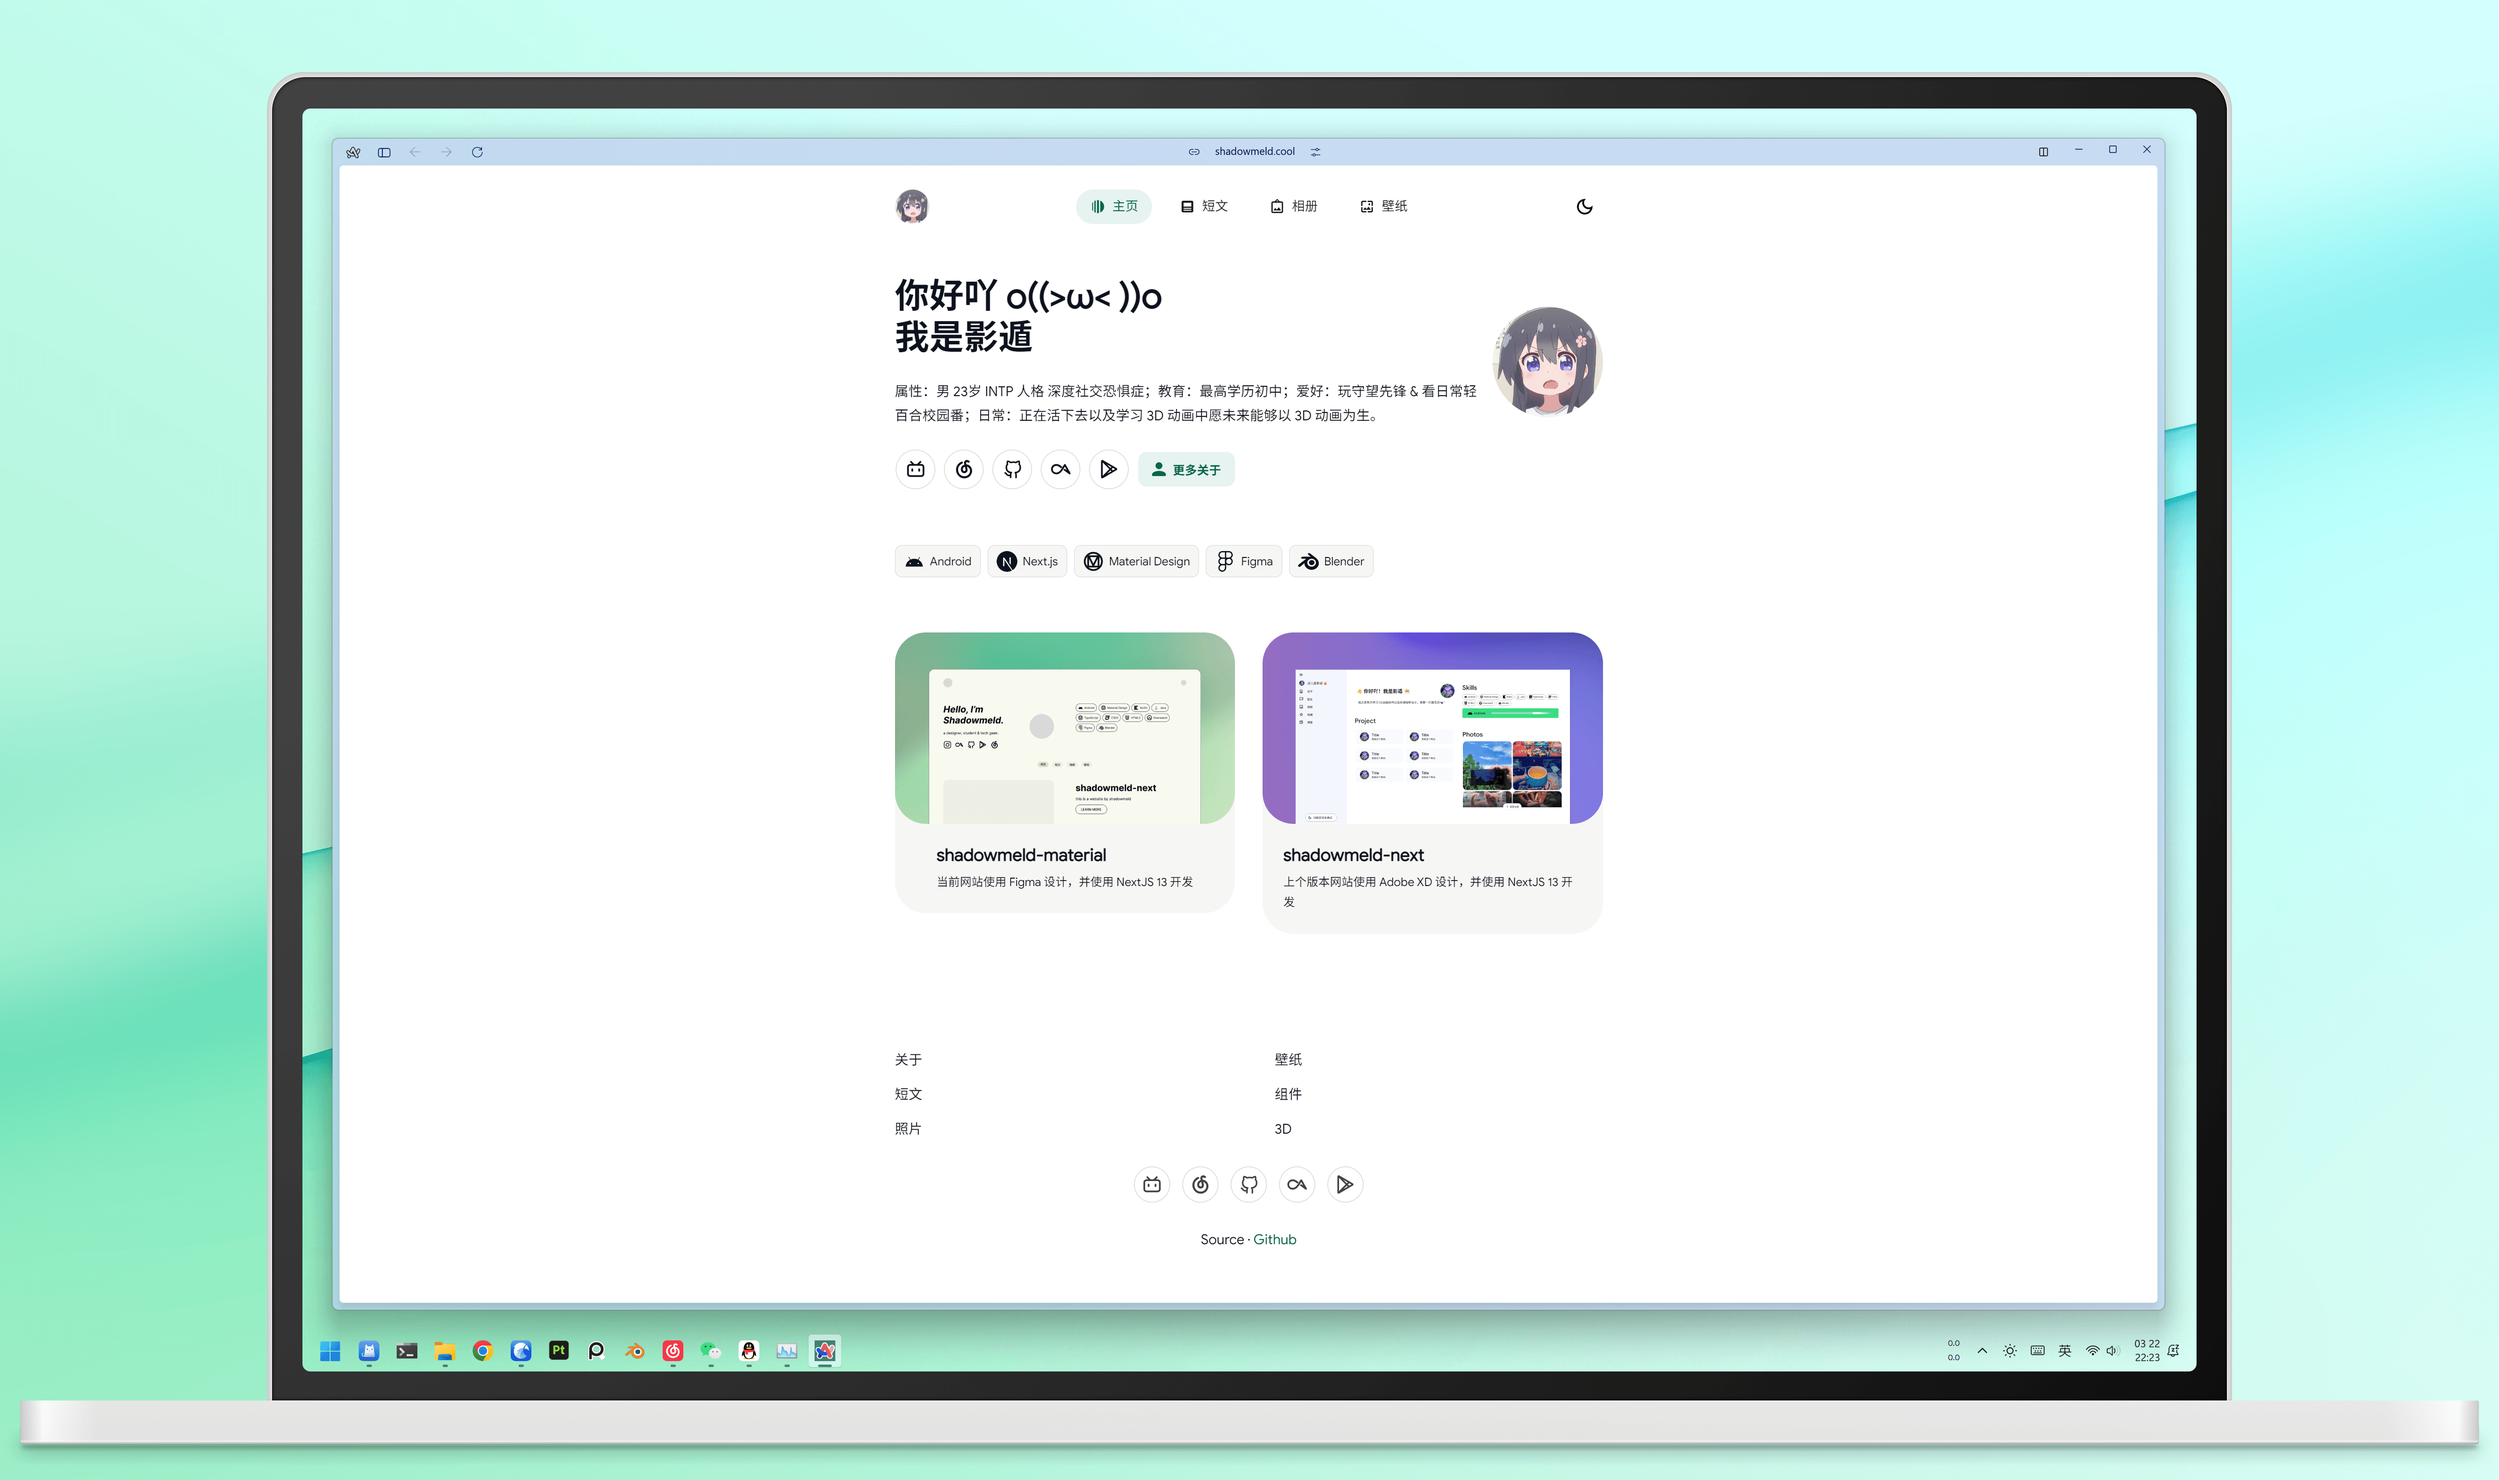
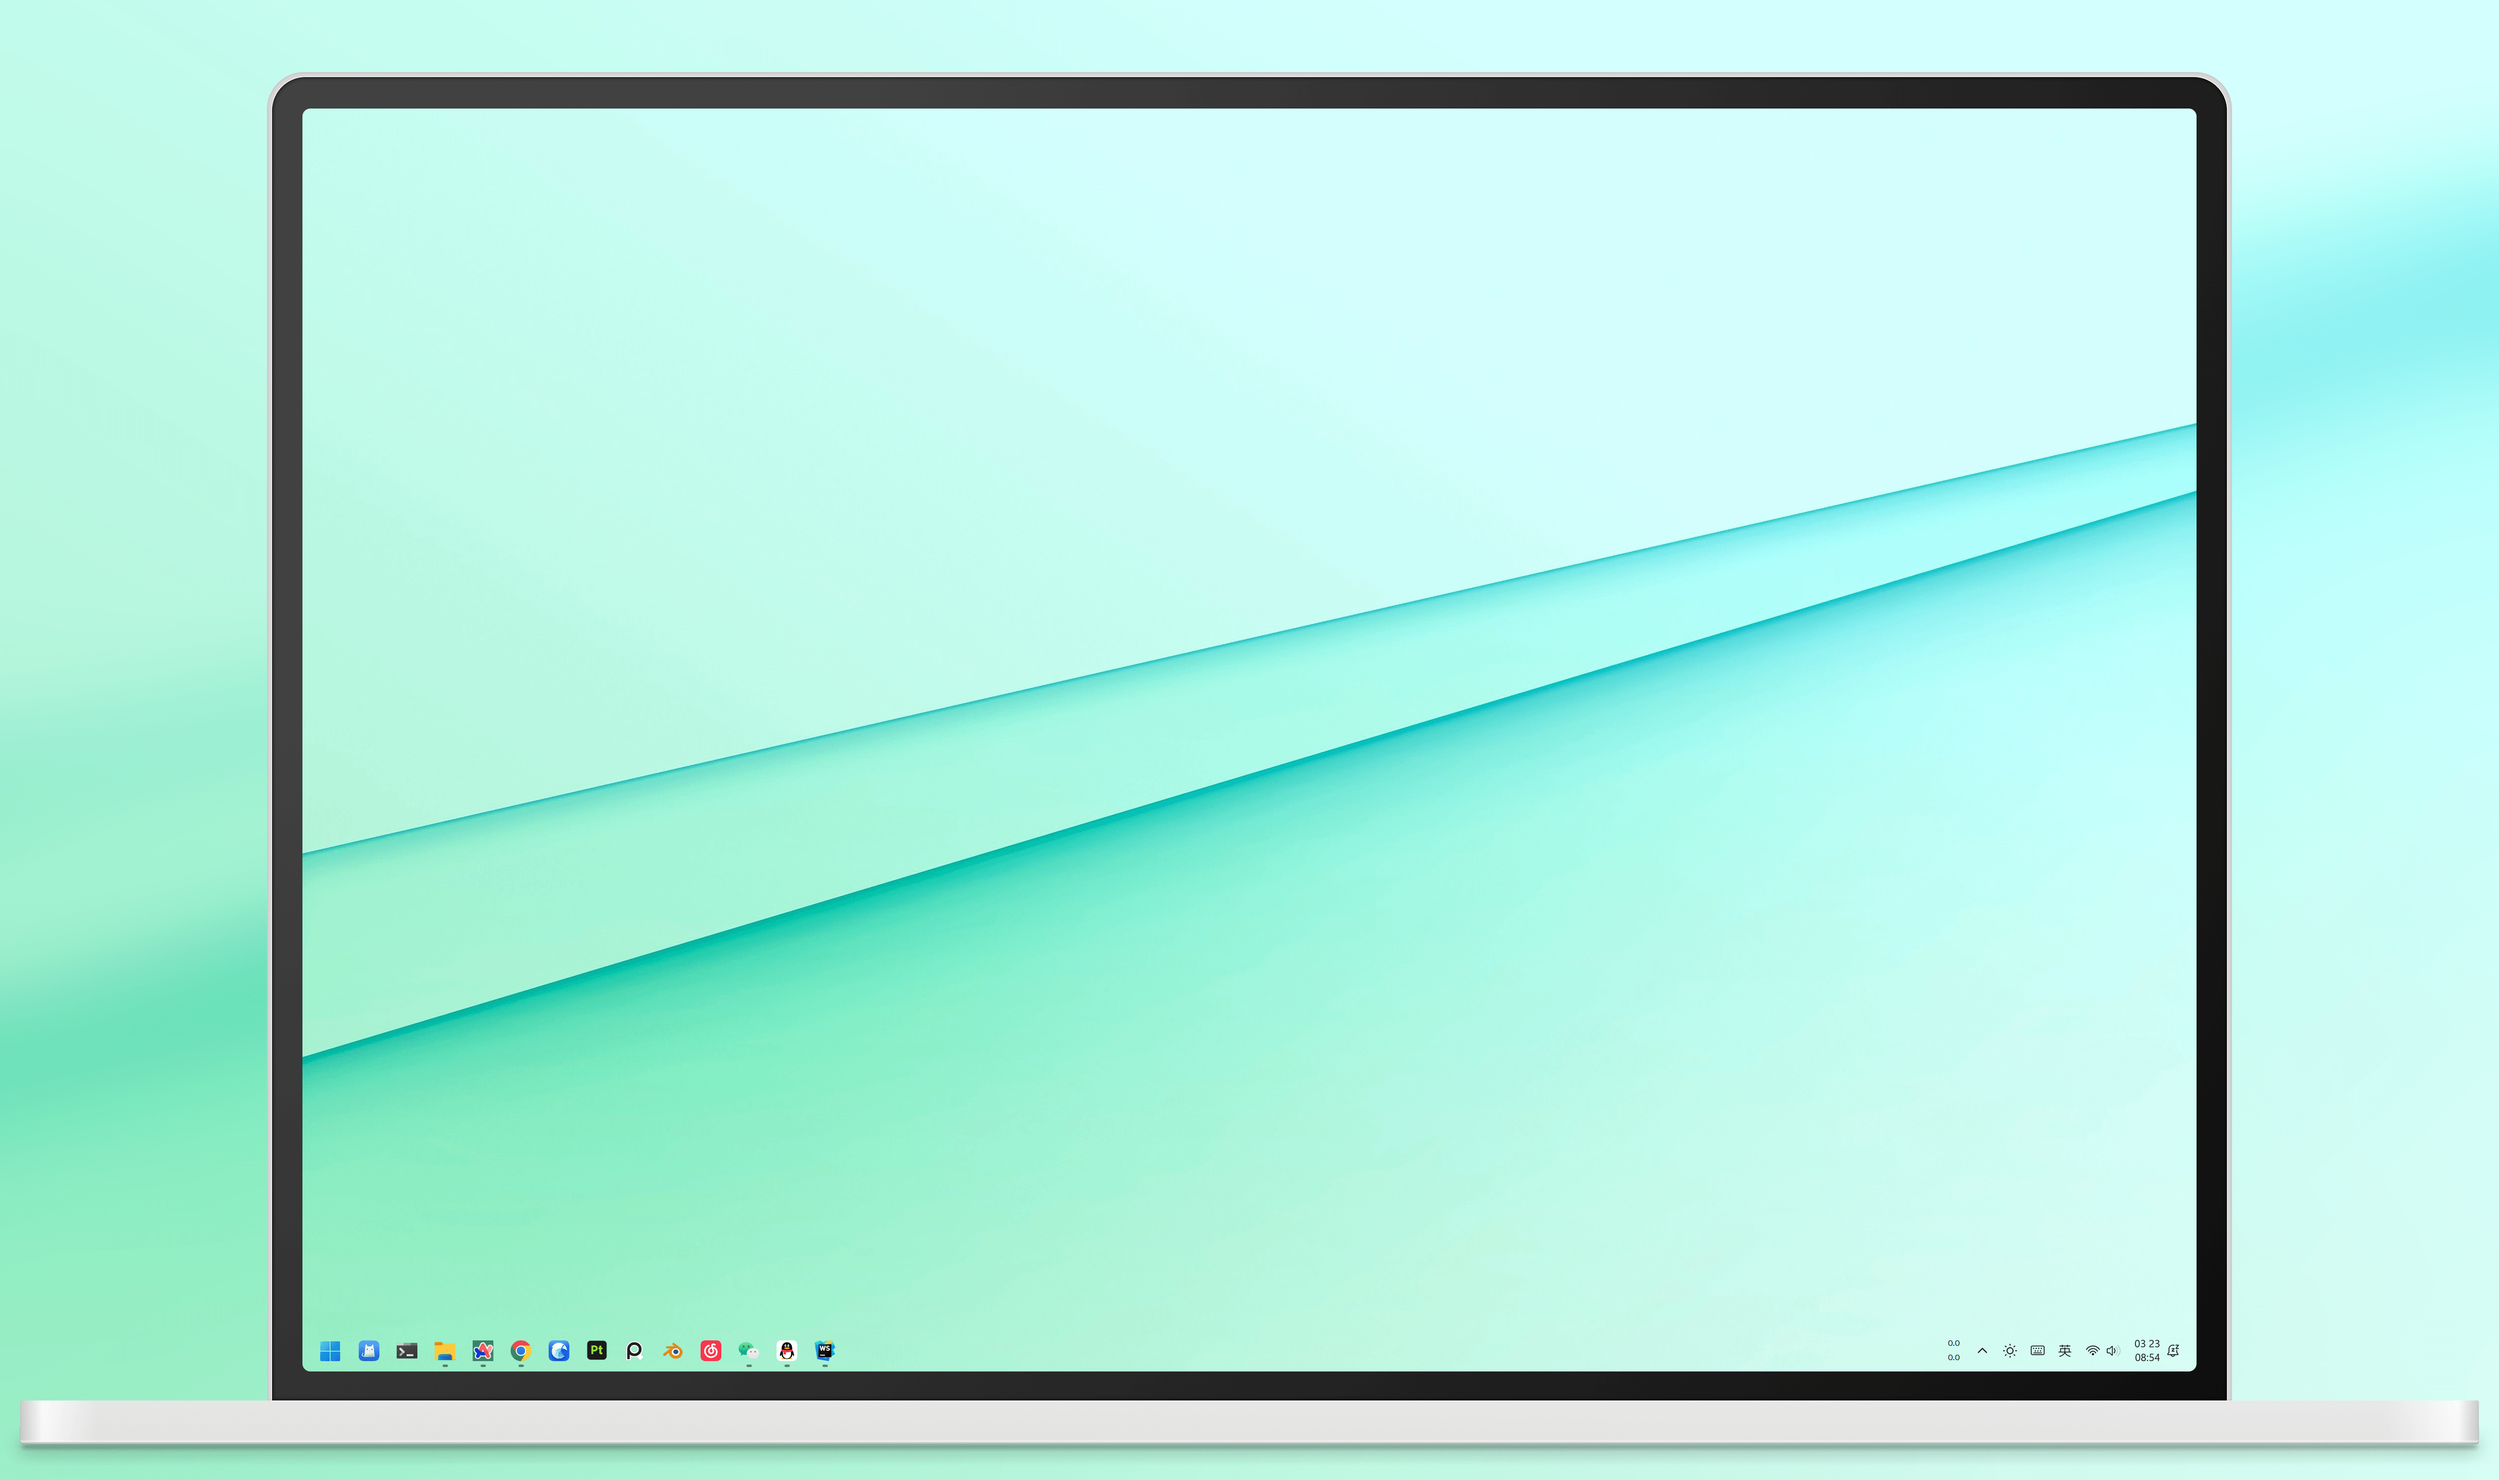
1.0

diff --git a/README.md b/README.md
@@ -1,3 +1,7 @@
+# Next.js + sharp 带壳截图合成
+
+![img](output.png)
+
 ### 使用示例：
 
 前提：设备安装有 Node.js
